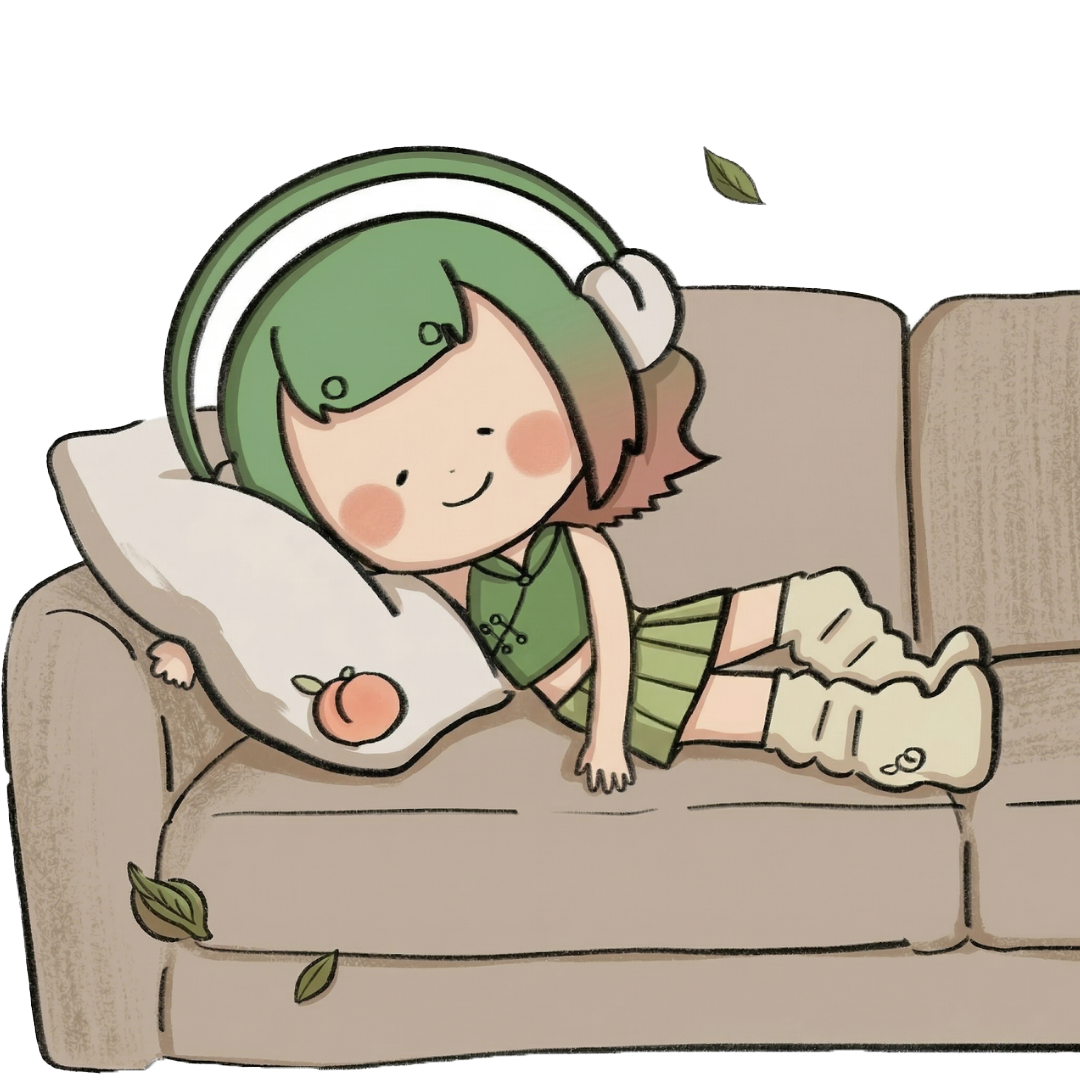
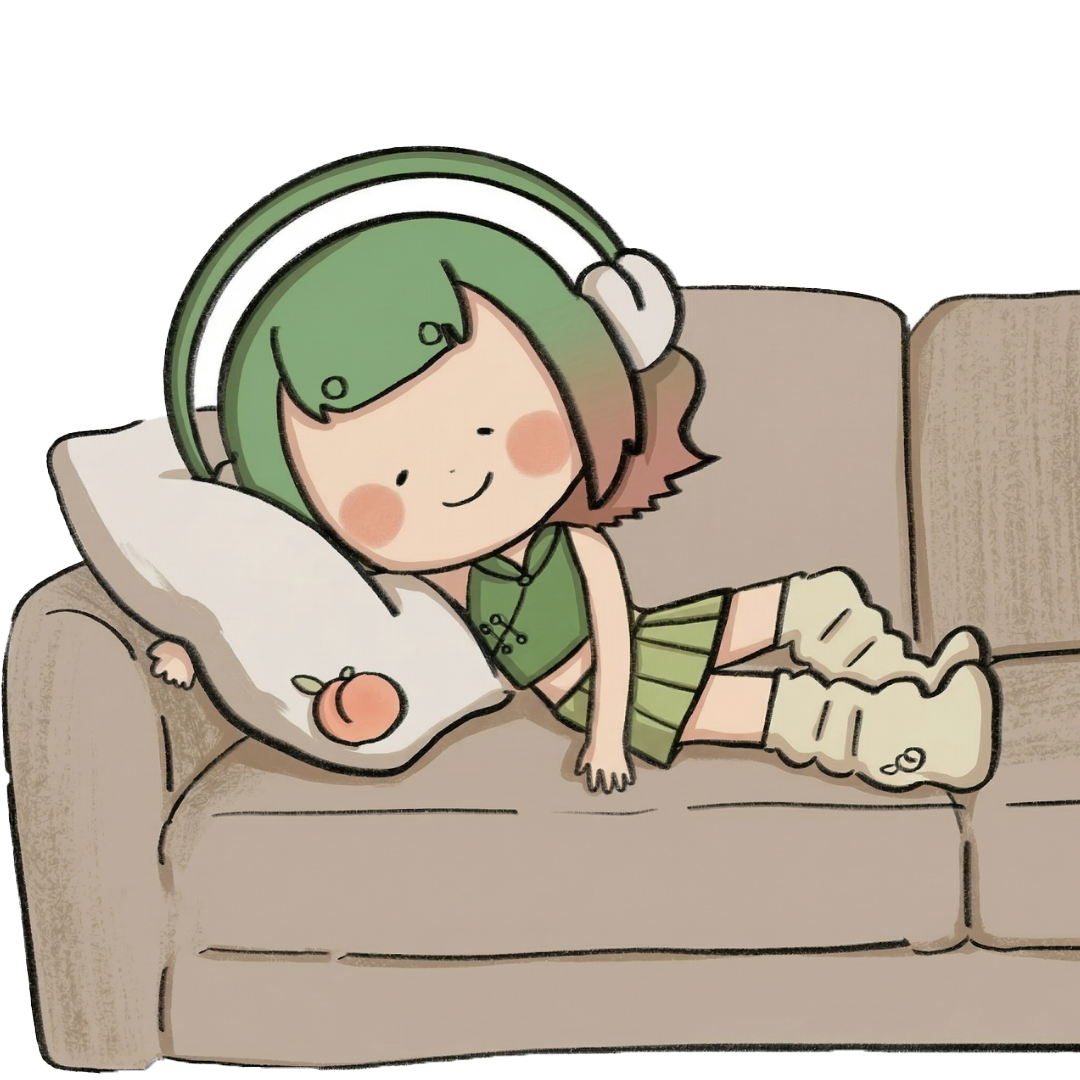
封面動物大小修正

Changed region(s): [[0.1222, 0.7944, 0.2139, 0.8861], [0.6417, 0.1222, 0.7028, 0.2139], [0.275, 0.8556, 0.3361, 0.9472]]

diff --git a/src/App.vue b/src/App.vue
@@ -285,68 +285,54 @@ const handleGoToStore = () => { playClickSound(); window.location.href = "https:
 }
 .kv-image { width: 100%; height: 100%; object-fit: cover; }
 
-/* 🌟 所有首頁動物的共用基礎設定與淡入動畫 */
+/* 🌟 【已修改】絕對座標對齊：強制所有去背小動物與封面圖圖層大小完全重疊 */
 .kv-animal {
   position: absolute;
-  object-fit: contain;
-  opacity: 0; /* 預設完全透明 */
-  animation: animalFadeIn 0.6s ease-out forwards; /* 動態結束後停在最後一格 */
+  top: 0;
+  left: 0;
+  width: 100%;
+  height: 100%;
+  object-fit: cover; /* 縮放模式對齊底圖 .kv-image，確保完美相疊不移位 */
+  opacity: 0;        /* 預設完全透明 */
+  animation: animalFadeIn 0.6s ease-out forwards; /* 動態結束後維持顯示 */
 }
 
-/* 🌟 動物淡入與微放大跳出效果 */
+/* 🌟 【已修改】純淡入動畫（拿掉形變，100% 還原您在 PS 設計好的大小比例） */
 @keyframes animalFadeIn {
   from {
     opacity: 0;
-    transform: scale(0.8) translateY(10px);
   }
   to {
     opacity: 1;
-    transform: scale(1) translateY(0);
   }
 }
 
 /* ===================================================
-   🎯 五隻動物定位與出場時間（依你指定的順序）
-   (你可以在 Localhost 畫面下一邊觀看一邊自由修改 width / top / left 坐標)
+   ⏰ 【已修改】只控制每隻動物的出場時間差（依您的順序）
    =================================================== */
 
-/* 1. 白鼻心 (第一個出場) */
+/* 1. 白鼻心 */
 .civet {
-  width: 60px;
-  left: 20px;
-  top: 50px;
   animation-delay: 0.5s;
 }
 
-/* 2. 穿山甲 (第二個出場) */
+/* 2. 穿山甲 */
 .pangolin {
-  width: 70px;
-  right: 20px;
-  top: 45px;
   animation-delay: 1.0s;
 }
 
-/* 3. 白面鼯鼠 (第三個出場) */
+/* 3. 白面鼯鼠 */
 .squirrel {
-  width: 65px;
-  left: 15px;
-  bottom: 10px;
   animation-delay: 1.5s;
 }
 
-/* 4. 石虎 (第四個出場) */
+/* 4. 石虎 */
 .leopard-cat {
-  width: 75px;
-  right: 35px;
-  bottom: 5px;
   animation-delay: 2.0s;
 }
 
-/* 5. 台灣藍鵲 (最後壓軸) */
+/* 5. 台灣藍鵲 */
 .magpie {
-  width: 65px;
-  left: 40px;
-  top: 15px;
   animation-delay: 2.5s;
 }
 
